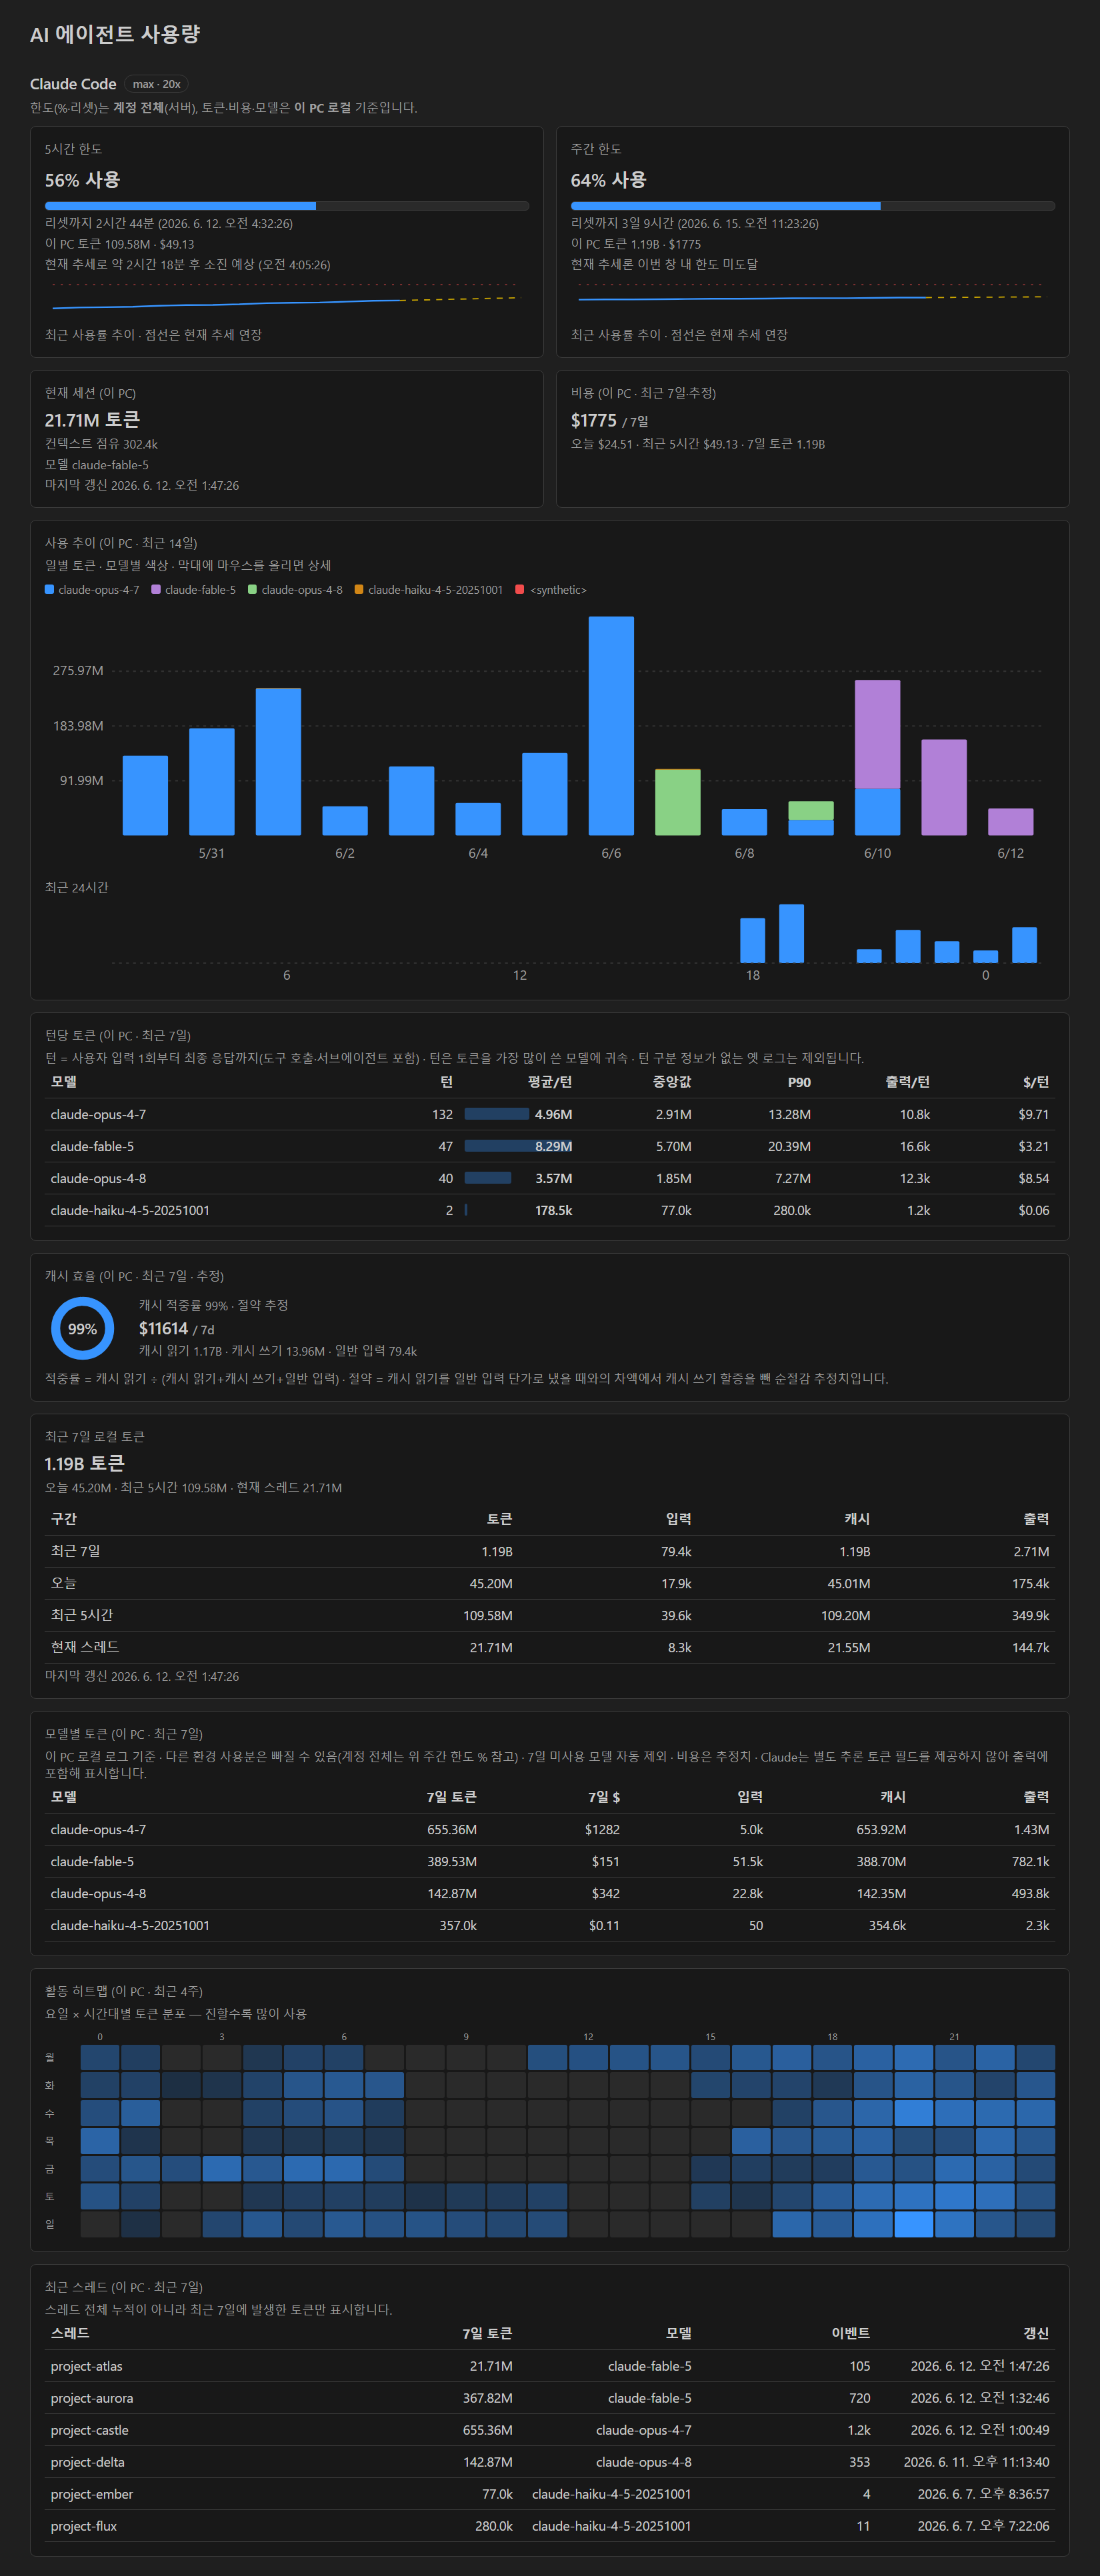
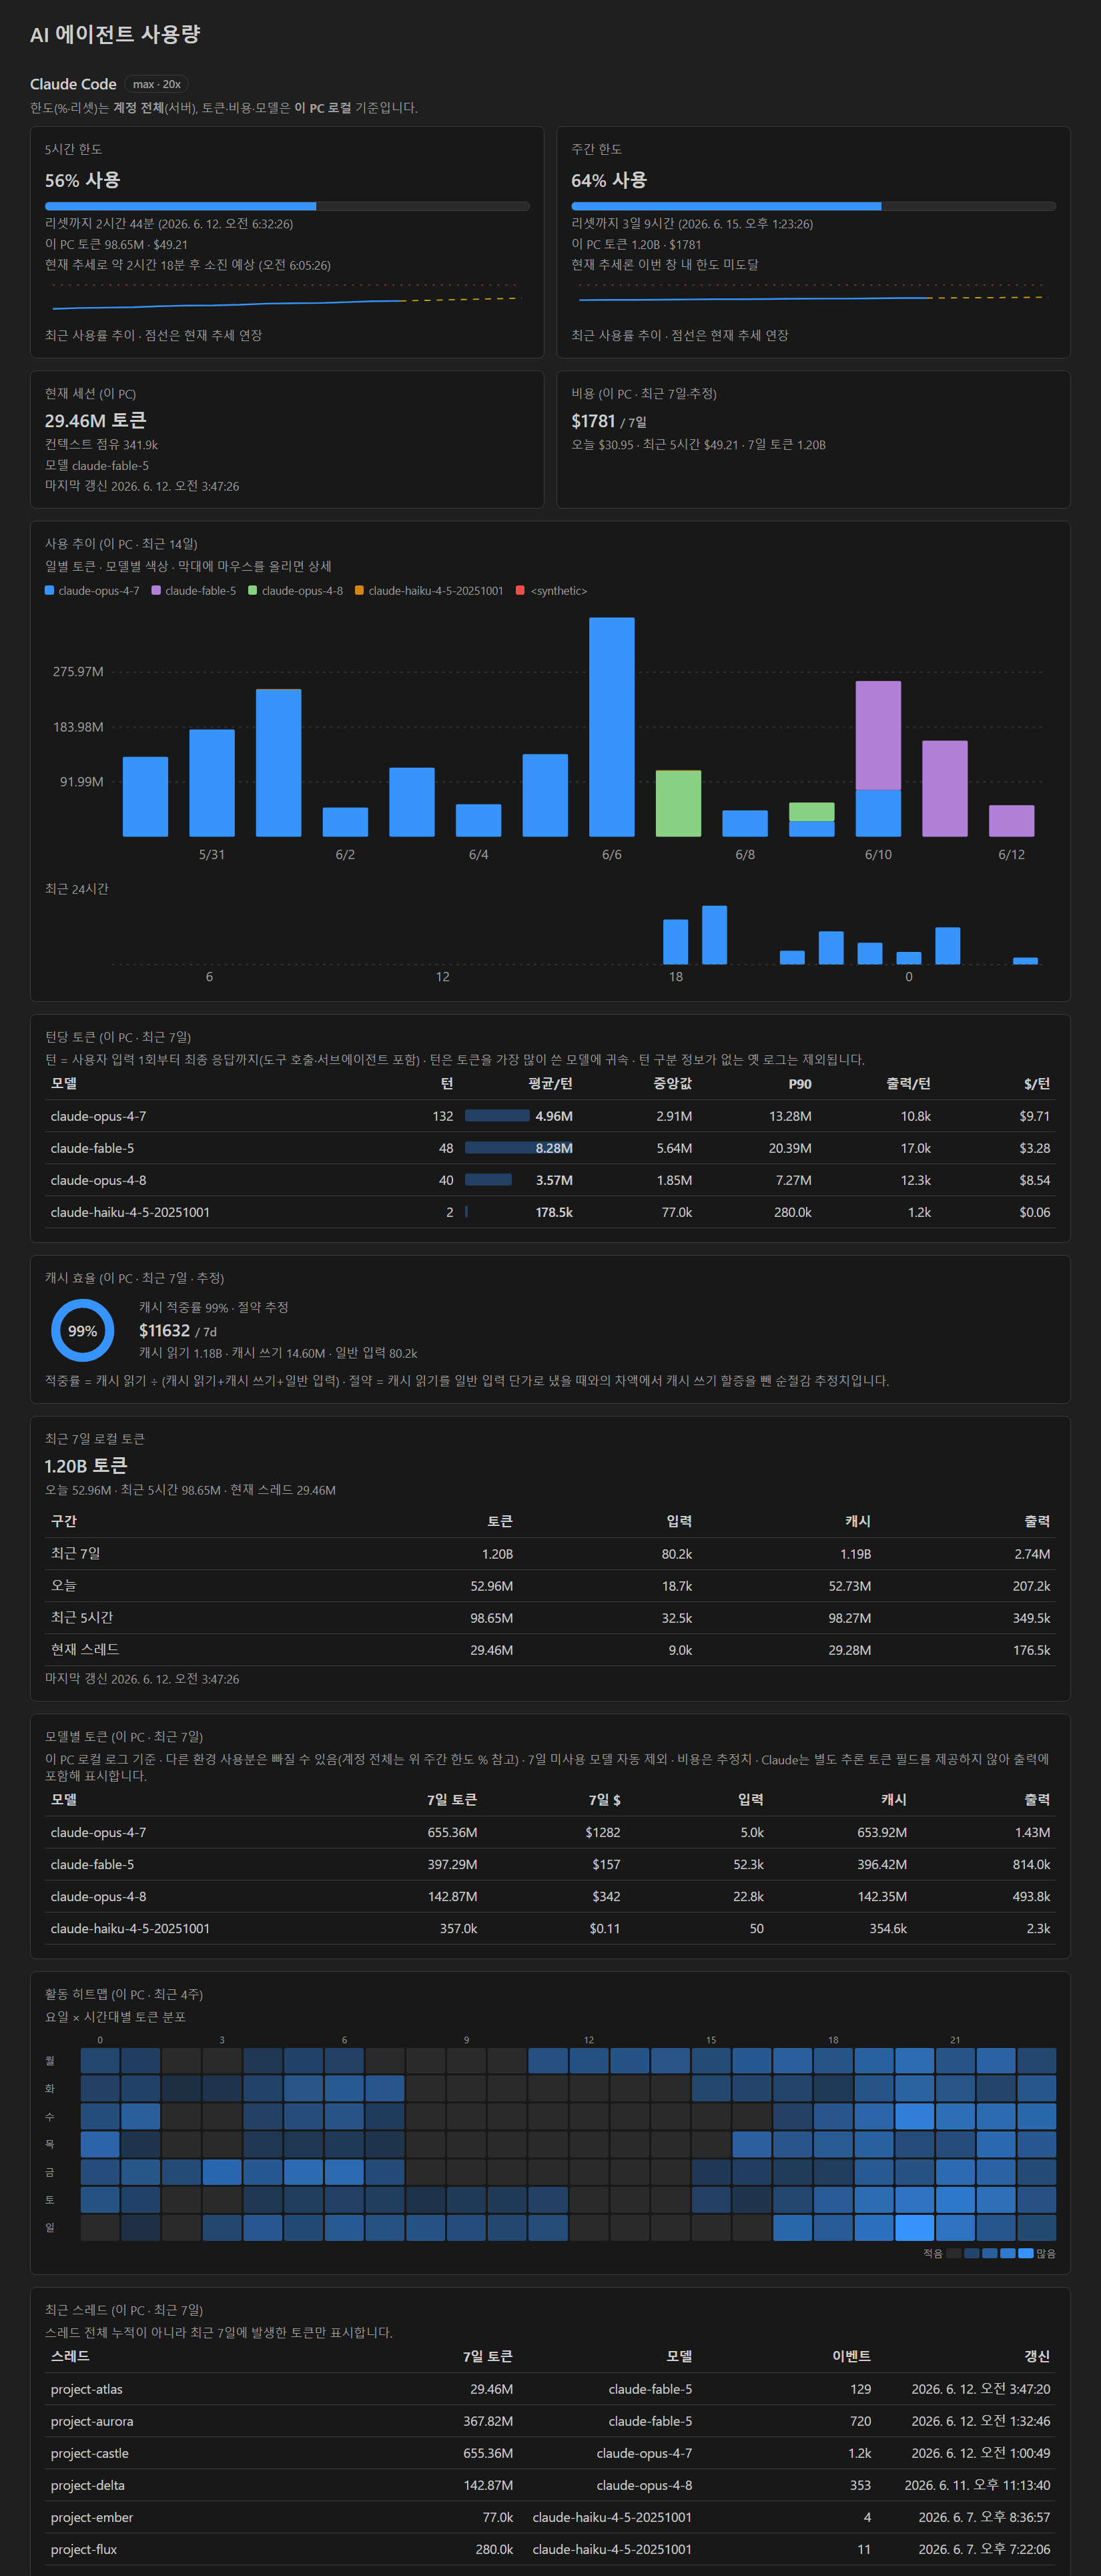
fix(ui): 히트맵 적음→많음 범례 추가 + Codex 절약액 미산출 사유 문구 정정 (v0.8.2)
- 활동 히트맵: 다크 테마에서 '진할수록 많이 사용' 문구가 시각과 반대로 읽히는 문제 → GitHub 잔디 스타일 적음→많음 그라데이션 범례로 교체 (테마 무관하게 방향 명확)
- Codex 캐시 카드 노트: '단가 미표시 정책' 표현을 실제 사유(새 모델/별칭 변경 시 단가 자동 매칭을 안정적으로 보장할 수 없음)로 정정 — 기존 '최근 7일 로컬 토큰' 카드 문구와 일치
- README 동일 문구 정정

diff --git a/src/i18n.ts b/src/i18n.ts
@@ -331,12 +331,14 @@ export function webviewStrings(lang: Lang): Record<string, string> {
     cacheNote: "적중률 = 캐시 읽기 ÷ (캐시 읽기+캐시 쓰기+일반 입력) · 절약 = 캐시 읽기를 일반 입력 단가로 냈을 때와의 차액에서 캐시 쓰기 할증을 뺀 순절감 추정치입니다.",
     // Codex 캐시 적중률
     codexCacheCard: "캐시 적중률 (이 PC · 최근 7일)",
-    codexCacheNote: "Codex의 캐시 읽기(cached_input)는 입력(input)의 부분집합입니다 · 적중률 = 캐시 읽기 ÷ 전체 입력 · Codex는 모델 단가를 표시하지 않는 정책이라 절약액($)은 산출하지 않습니다.",
+    codexCacheNote: "Codex의 캐시 읽기(cached_input)는 입력(input)의 부분집합입니다 · 적중률 = 캐시 읽기 ÷ 전체 입력 · 절약액($)은 Codex의 새 모델/별칭이 자주 바뀌어 모델별 단가 자동 매칭을 안정적으로 보장할 수 없어 산출하지 않습니다.",
     nonCachedInput: "비캐시 입력",
     totalInput: "전체 입력",
     // 활동 히트맵
     heatmapCard: "활동 히트맵 (이 PC · 최근 4주)",
-    heatmapNote: "요일 × 시간대별 토큰 분포 — 진할수록 많이 사용",
+    heatmapNote: "요일 × 시간대별 토큰 분포",
+    heatLess: "적음",
+    heatMore: "많음",
     weekdaysShort: "월,화,수,목,금,토,일",
     // 한도 스파크라인
     sparkNote: "최근 사용률 추이 · 점선은 현재 추세 연장",
@@ -493,12 +495,14 @@ export function webviewStrings(lang: Lang): Record<string, string> {
     cacheNote: "Hit rate = cache read ÷ (cache read + cache write + fresh input) · savings = what cache reads would cost at fresh-input rates, minus the cache-write premium (net estimate).",
     // Codex cache hit rate
     codexCacheCard: "Cache hit rate (this PC · last 7d)",
-    codexCacheNote: "Codex cached_input is a subset of input · hit rate = cache reads ÷ total input · Codex does not show model pricing, so no $ savings are estimated.",
+    codexCacheNote: "Codex cached_input is a subset of input · hit rate = cache reads ÷ total input · $ savings are not estimated because Codex model IDs/aliases change too often to guarantee stable automatic price matching.",
     nonCachedInput: "Non-cached input",
     totalInput: "Total input",
     // Activity heatmap
     heatmapCard: "Activity heatmap (this PC · last 4 weeks)",
-    heatmapNote: "Tokens by weekday × hour — darker means heavier use",
+    heatmapNote: "Tokens by weekday × hour",
+    heatLess: "Less",
+    heatMore: "More",
     weekdaysShort: "Mon,Tue,Wed,Thu,Fri,Sat,Sun",
     // Limit sparkline
     sparkNote: "Recent utilization trend · dashed line extends the current rate",

diff --git a/media/dashboard.css b/media/dashboard.css
@@ -131,6 +131,15 @@ svg.donut circle.arc { fill: none; stroke: var(--accent); stroke-width: 9; strok
   background: var(--accent);
 }
 .hm i.cell.empty { background: var(--vscode-input-background); opacity: 1; }
+.hmlegend {
+  display: flex; align-items: center; justify-content: flex-end;
+  gap: 3px; margin-top: 6px; font-size: 10px; color: var(--muted);
+}
+.hmlegend i.cell {
+  display: inline-block; width: 15px; height: 10px; border-radius: 2px;
+  background: var(--accent);
+}
+.hmlegend i.cell.empty { background: var(--vscode-input-background); }
 
 @media (max-width: 720px) {
   .shell { padding: 14px; }

diff --git a/media/main.js b/media/main.js
@@ -592,7 +592,13 @@
         }
       }
     }
-    return '<div class="sub" style="margin-top:0">' + S.heatmapNote + '</div><div class="hm">' + cells + "</div>";
+    // GitHub 잔디 스타일 범례: 적음 → 많음 그라데이션 (테마 무관하게 방향이 명확).
+    const legend = '<div class="hmlegend">' + escapeHtml(S.heatLess) +
+      [0, 0.25, 0.5, 0.75, 1].map((v) =>
+        v === 0 ? '<i class="cell empty"></i>' : '<i class="cell" style="opacity:' + (0.15 + 0.85 * v).toFixed(3) + '"></i>'
+      ).join("") +
+      escapeHtml(S.heatMore) + "</div>";
+    return '<div class="sub" style="margin-top:0">' + S.heatmapNote + '</div><div class="hm">' + cells + "</div>" + legend;
   }
 
   /** 한도 사용률 스파크라인(Claude: ISO 윈도우 키 five/seven). 점선 = 현재 추세 연장. */

diff --git a/README.md b/README.md
@@ -33,7 +33,7 @@ VS Code에서 **Codex와 Claude Code 사용량을 동시에** 항시 볼 수 있
 
 - **사용 추이 차트**: 최근 14일 일별 토큰을 모델별 색상 스택 막대로, 최근 24시간을 시간별 미니 막대로 표시 (막대 위 마우스 오버로 상세)
 - **턴당 토큰 통계**: 모델별로 1턴(사용자 입력→최종 응답, 도구 호출·서브에이전트 포함)의 평균·중앙값·P90·출력 토큰을 표시. 평균만이 아니라 분포를 함께 보여 "긴 턴 하나가 평균을 끌어올렸는지" 구분 가능. Claude는 턴당 추정 비용($)도 표시
-- **캐시 효율**: Claude는 적중률 도넛 + "캐시 덕에 절약한 추정 비용"(캐시 쓰기 할증을 차감한 순절감), Codex는 적중률 도넛(Codex의 `cached_input`은 `input`의 부분집합 의미론이며, 단가 미표시 정책에 따라 절약액 $는 산출하지 않음)
+- **캐시 효율**: Claude는 적중률 도넛 + "캐시 덕에 절약한 추정 비용"(캐시 쓰기 할증을 차감한 순절감), Codex는 적중률 도넛(Codex의 `cached_input`은 `input`의 부분집합 의미론. 절약액 $는 새 모델/별칭이 자주 바뀌어 단가 자동 매칭을 안정적으로 보장할 수 없어 산출하지 않음)
 - **활동 히트맵**: 최근 4주 요일×시간대 토큰 분포 — 언제 많이 쓰는지 한눈에
 - **한도 스파크라인**: 5시간/주간 한도 카드 안에 최근 사용률 추이를 그리고, 현재 추세 연장선(점선)과 100% 도달 예상점을 함께 표시
 